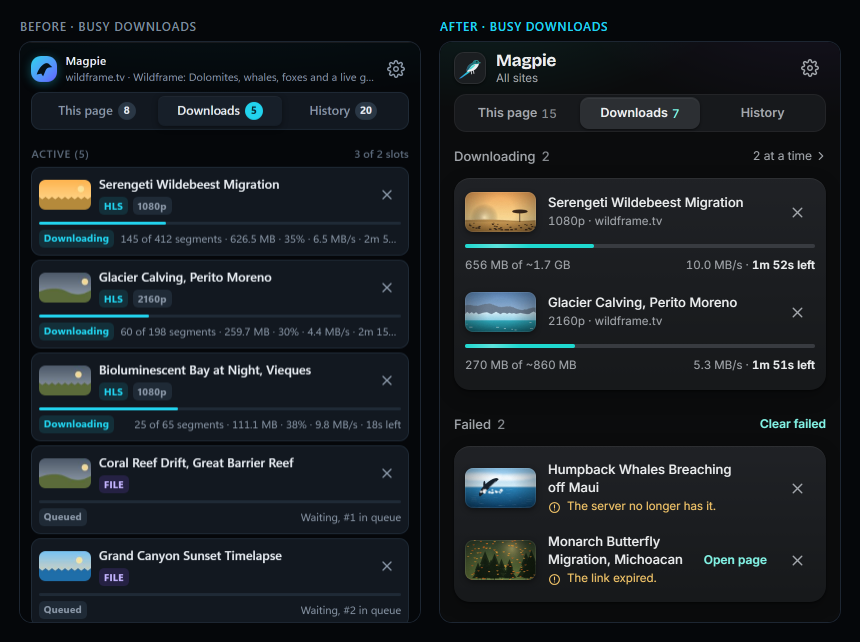
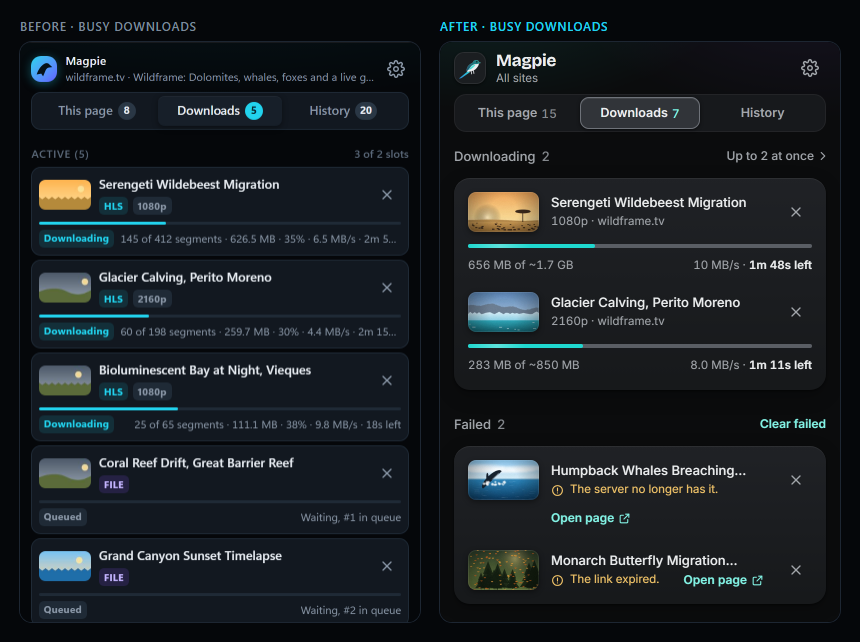
Final build: accurate 404 copy, comparisons from the final build
- A 404 or 410 reads "The server no longer has it." again. "The site removed
  it." claimed more than a 404 tells (an expired playlist also returns one), and
  it contradicted the Open page fix beside it. Since round 81 the fix moves to
  its own line when the reason is long, so the accurate copy is never cut.
- docs/ui-polish: round 0 against the final build.

diff --git a/extension/src/ui/jobs.tsx b/extension/src/ui/jobs.tsx
@@ -165,7 +165,7 @@ export function JobRow({ job, thumbs, onRetry, inset }: { job: Job; thumbs: bool
   );
   // A failure offers the way back: the sheet again while the media is listed, else its page, where playing it gives a fresh link.
   const recover = failed
-    ? onRetry && !/site removed it|404|410/i.test(friendlyError(job.error ?? '') + (job.error ?? ''))
+    ? onRetry && !/no longer has it|404|410/i.test(friendlyError(job.error ?? '') + (job.error ?? ''))
       ? { hint: 'Its page is still open, so a retry gets a fresh link.', label: 'Retry', icon: <IconRedo size={13} />, tip: 'Pick a quality for this video again', run: onRetry }
       : job.pageUrl
         ? { hint: 'Play it on its page so Magpie catches a fresh link, then download it again.', label: 'Open page', icon: <IconExternal size={13} />, tip: `Open ${job.pageUrl} in a new tab`, run: () => openPage(job.pageUrl!) }

diff --git a/extension/src/ui/format.ts b/extension/src/ui/format.ts
@@ -248,7 +248,7 @@ export function fmtHeight(height: number | undefined): string {
  */
 export function friendlyError(message: string): string {
   if (/\b(401|403)\b/.test(message)) return 'The link expired.';
-  if (/\b(404|410)\b/.test(message)) return 'The site removed it.';
+  if (/\b(404|410)\b/.test(message)) return 'The server no longer has it.';
   if (/\b(429|5\d\d)\b/.test(message)) return 'The server is busy. Try again soon.';
   if (/failed to fetch|networkerror|network error|connection/i.test(message)) return 'The connection dropped.';
   if (/timed? ?out|timeout/i.test(message)) return 'The server stopped answering.';

diff --git a/extension/src/ui/format.test.ts b/extension/src/ui/format.test.ts
@@ -178,7 +178,7 @@ describe('sizes', () => {
 describe('friendlyError', () => {
   it('says what to do for refused, missing and dropped downloads', () => {
     expect(friendlyError('HTTP 403 for https://cdn.example/seg-119.ts')).toBe('The link expired.');
-    expect(friendlyError('Server returned 404 for segment 3')).toBe('The site removed it.');
+    expect(friendlyError('Server returned 404 for segment 3')).toBe('The server no longer has it.');
     expect(friendlyError('TypeError: Failed to fetch')).toBe('The connection dropped.');
     expect(friendlyError('No variant to download.')).toBe('No variant to download.');
   });
